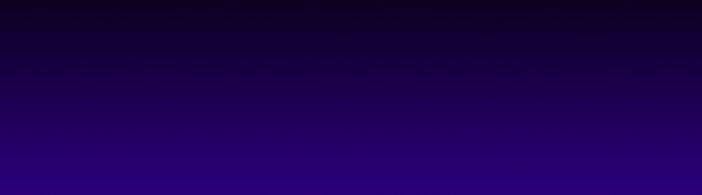
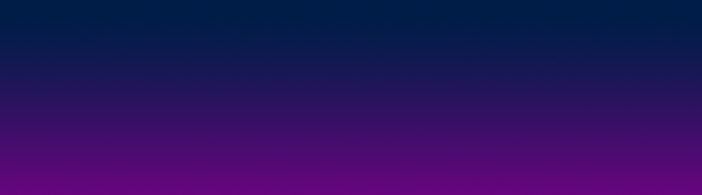
.

diff --git a/Example/FinalLevelState.h b/Example/FinalLevelState.h
@@ -23,13 +23,14 @@ class FinalLevelState : public BaseState
 	unsigned spr_space, spr_ship, spr_bullet, spr_roid, spr_font, spr_scroll;
 	ObjectPool<Entity>::iterator currentCamera;
 	bool isGameOver = false;
+	bool win = false;
 	//Health health;
 
 public:
 	virtual void init()
 	{
 		spr_bullet = sfw::loadTextureMap("../res/bullet2.png");
-		spr_space = sfw::loadTextureMap("../res/BG.png");
+		spr_space = sfw::loadTextureMap("../res/BG3.png");
 		spr_ship = sfw::loadTextureMap("../res/Ship2.png");
 		spr_roid = sfw::loadTextureMap("../res/rock.png");
 		spr_font = sfw::loadTextureMap("../res/font.png", 32, 4);
@@ -38,6 +39,7 @@ public:
 	virtual void play()
 	{
 		isGameOver = false;
+		win = false;
 		// delete any old entities sitting around
 		for (auto it = factory.begin(); it != factory.end(); it->onFree(), it.free());
 
@@ -73,6 +75,7 @@ public:
 	// update loop, where 'systems' exist
 	virtual void step()
 	{
+
 		float dt = sfw::getDeltaTime();
 
 		// maybe spawn some asteroids here.
